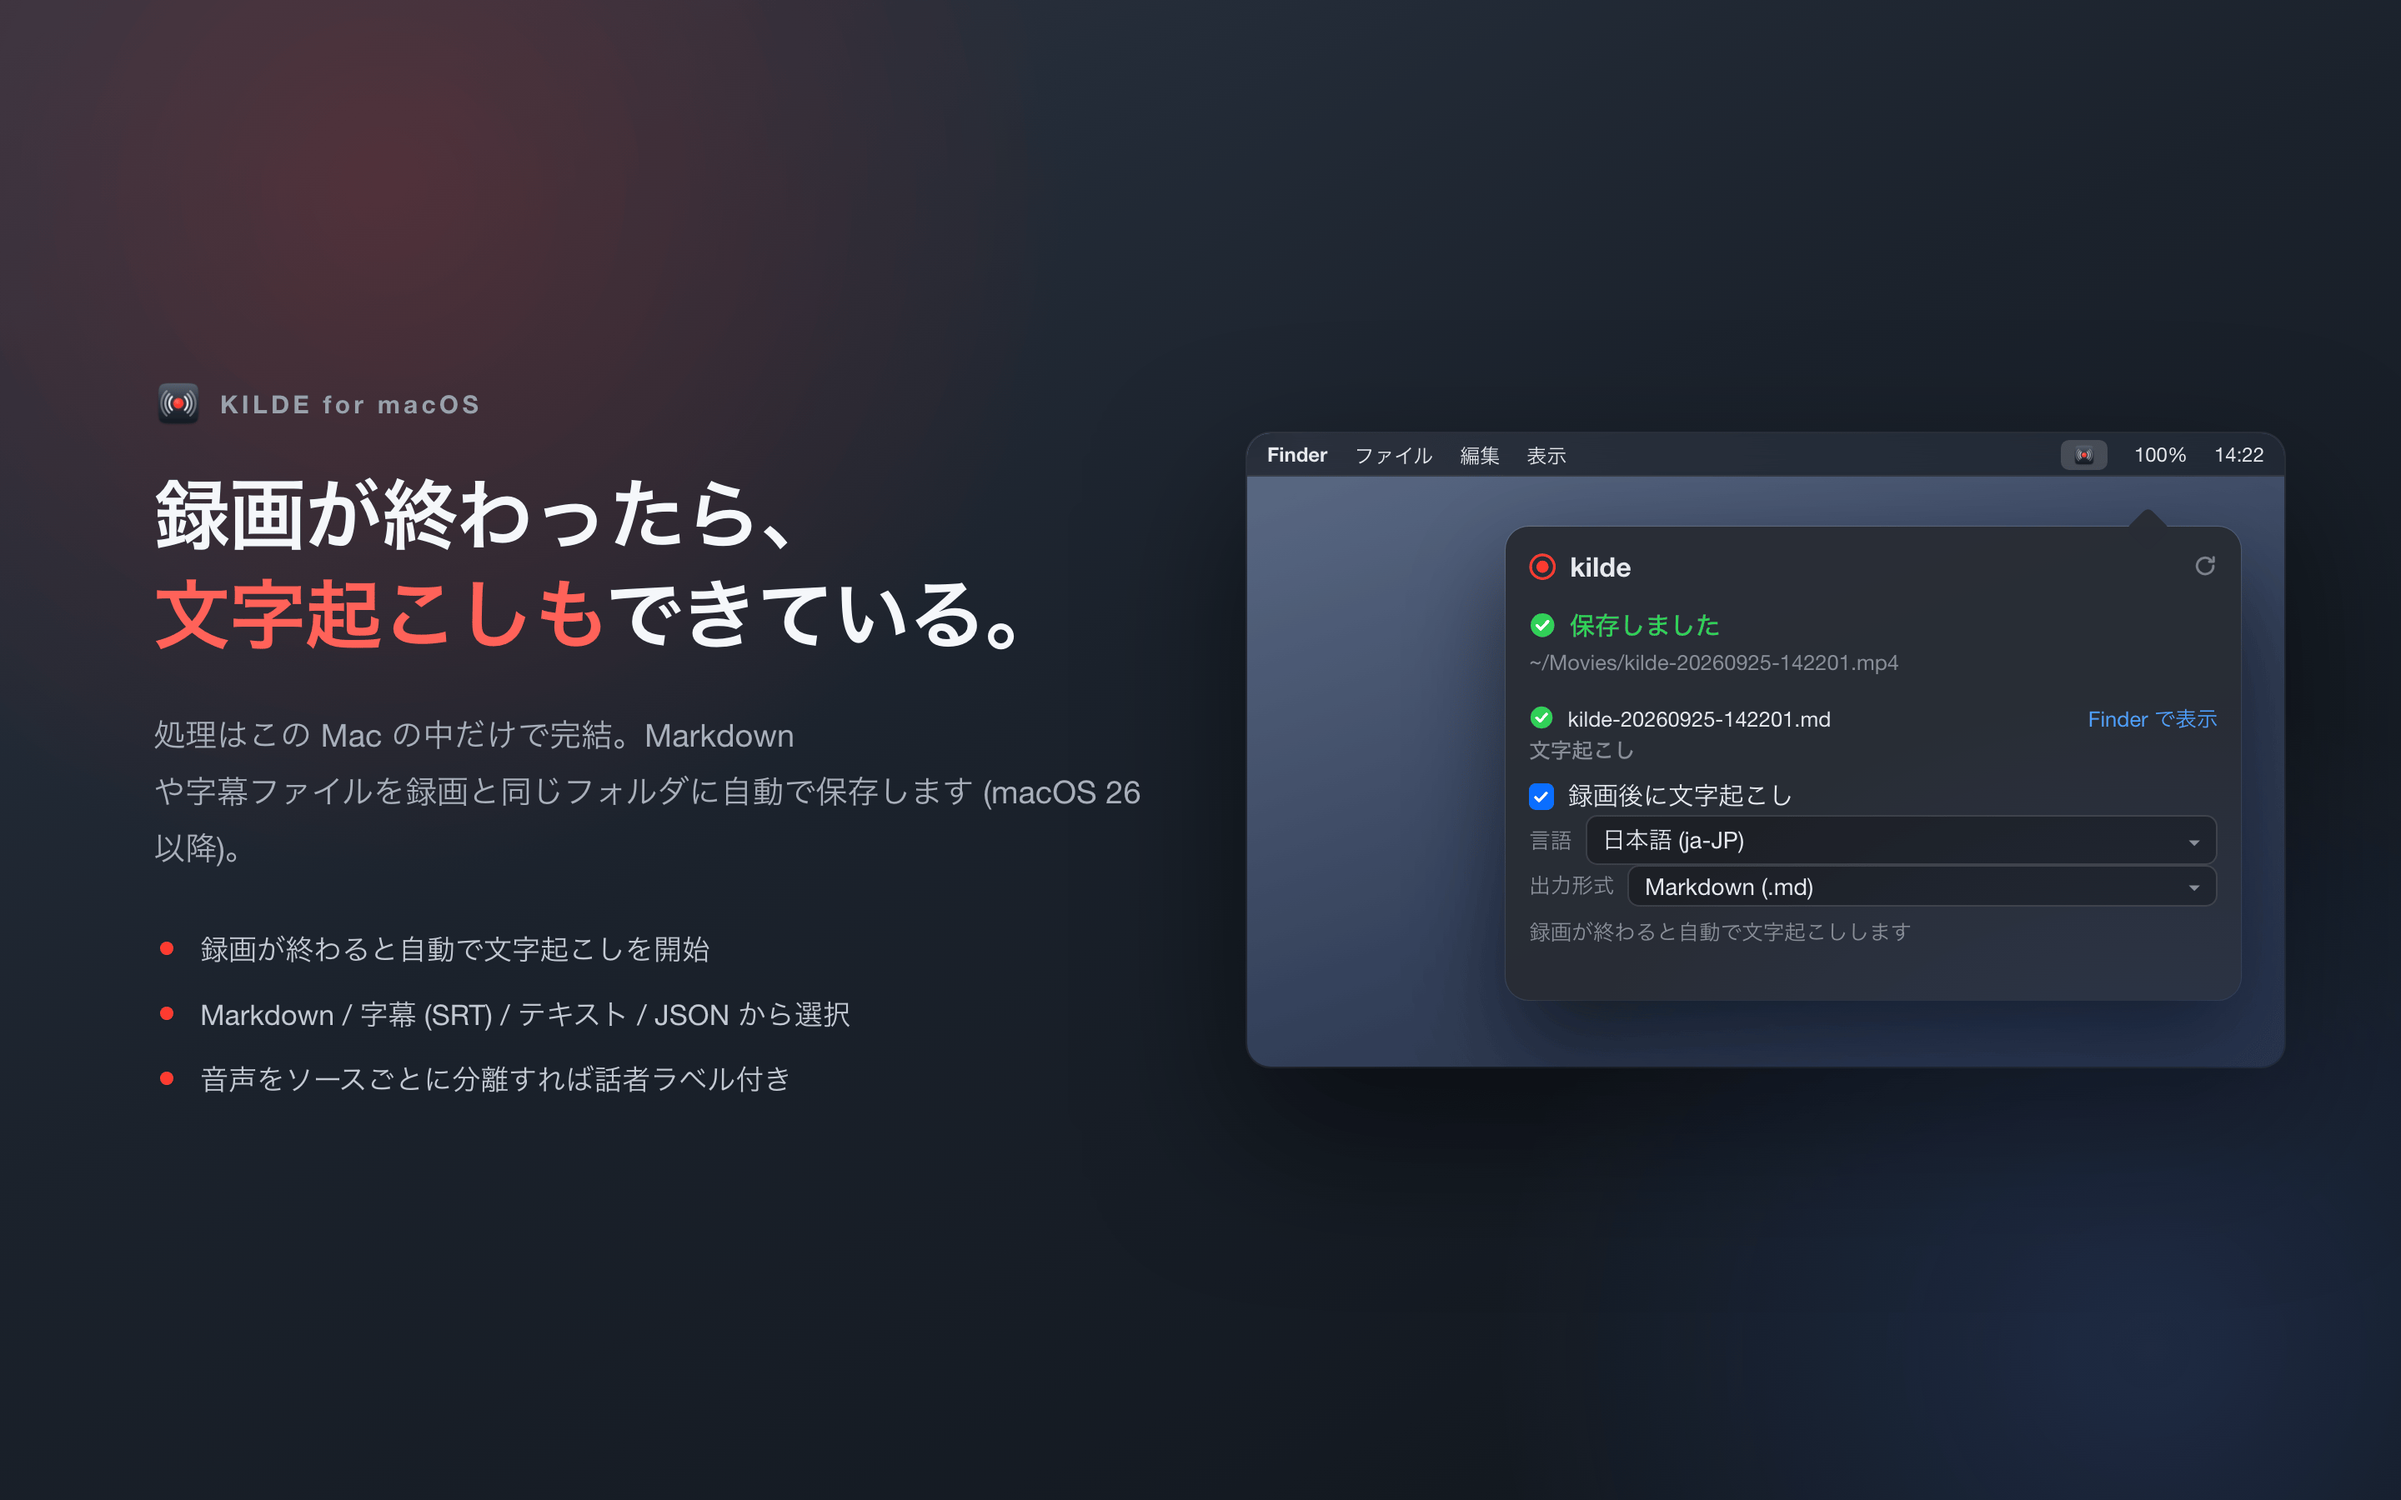
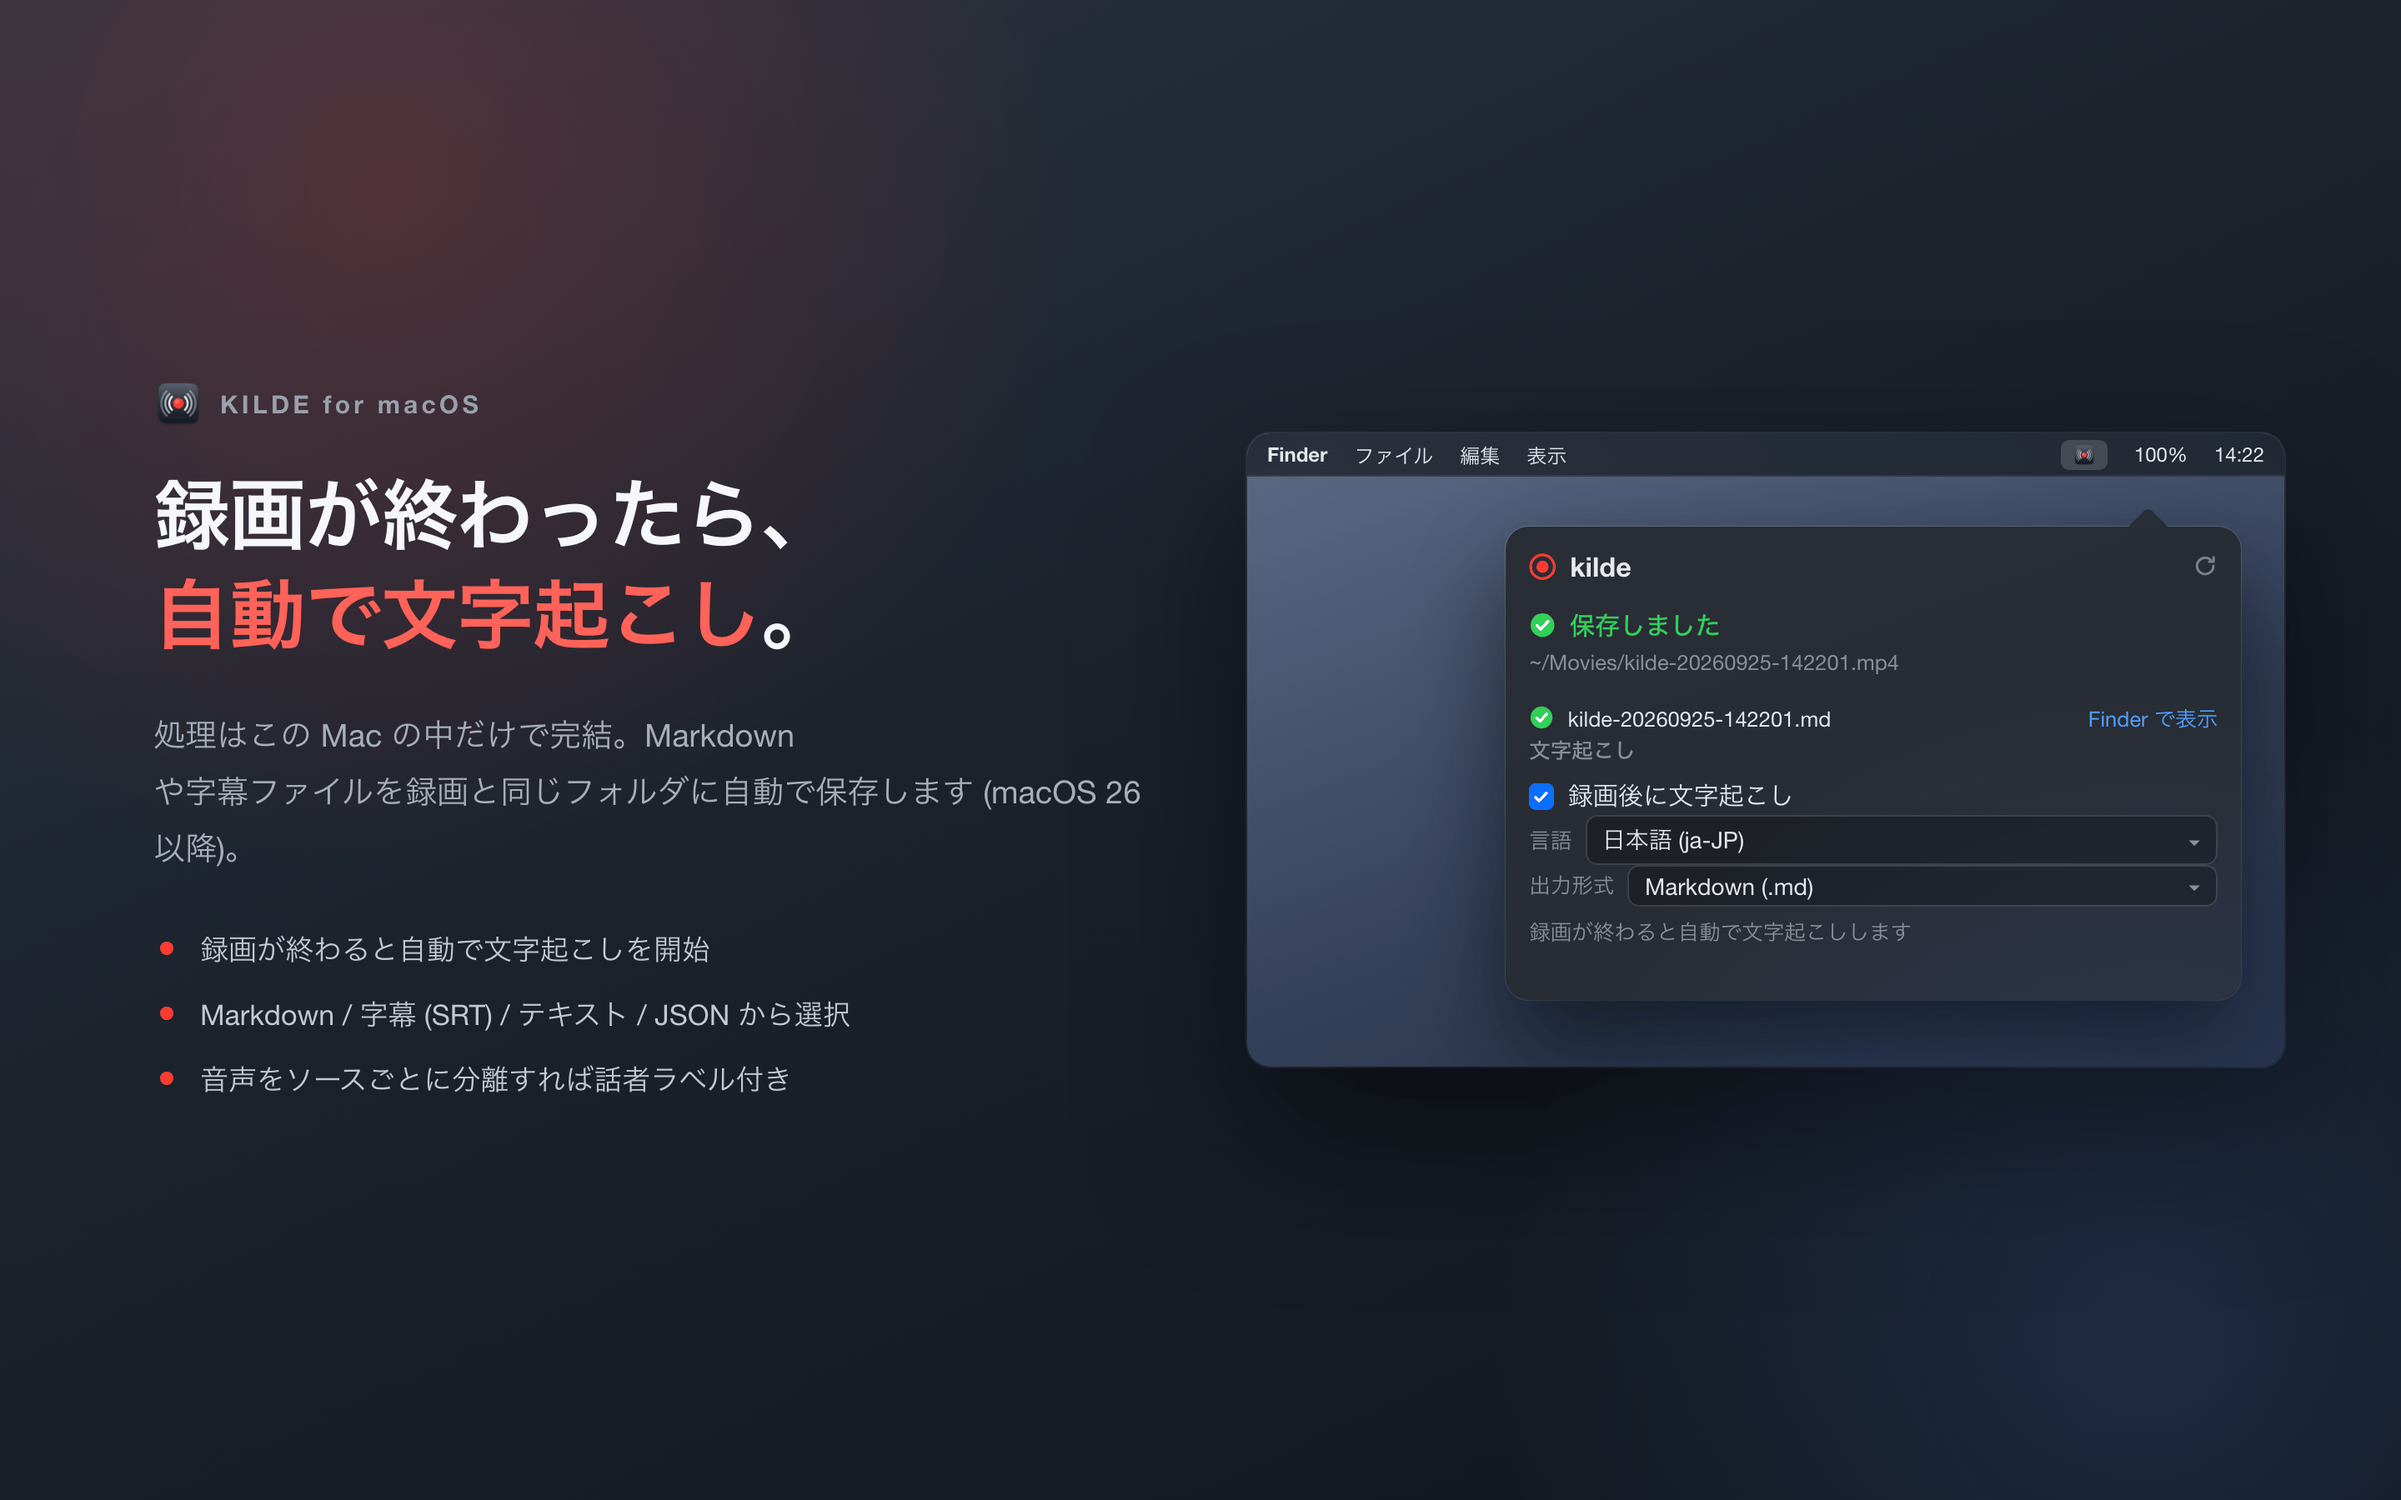
Say the transcription is automatic, not already done

Changed region(s): [[0.0625, 0.3733, 0.4375, 0.4356]]

diff --git a/docs/appstore/tools/build.py b/docs/appstore/tools/build.py
@@ -178,7 +178,7 @@ SHOTS = [
                  "オープンソース (MIT) / 録画は Mac の外に出さない"],
          body=panel.panel_done()),
     dict(name="06-transcribe",
-         h1='録画が終わったら、<br><span class="hl">文字起こしも</span>できている。',
+         h1='録画が終わったら、<br><span class="hl">自動で文字起こし</span>。',
          sub="処理はこの Mac の中だけで完結。Markdown や字幕ファイルを録画と同じフォルダに自動で保存します (macOS 26 以降)。",
          points=["録画が終わると自動で文字起こしを開始",
                  "Markdown / 字幕 (SRT) / テキスト / JSON から選択",
